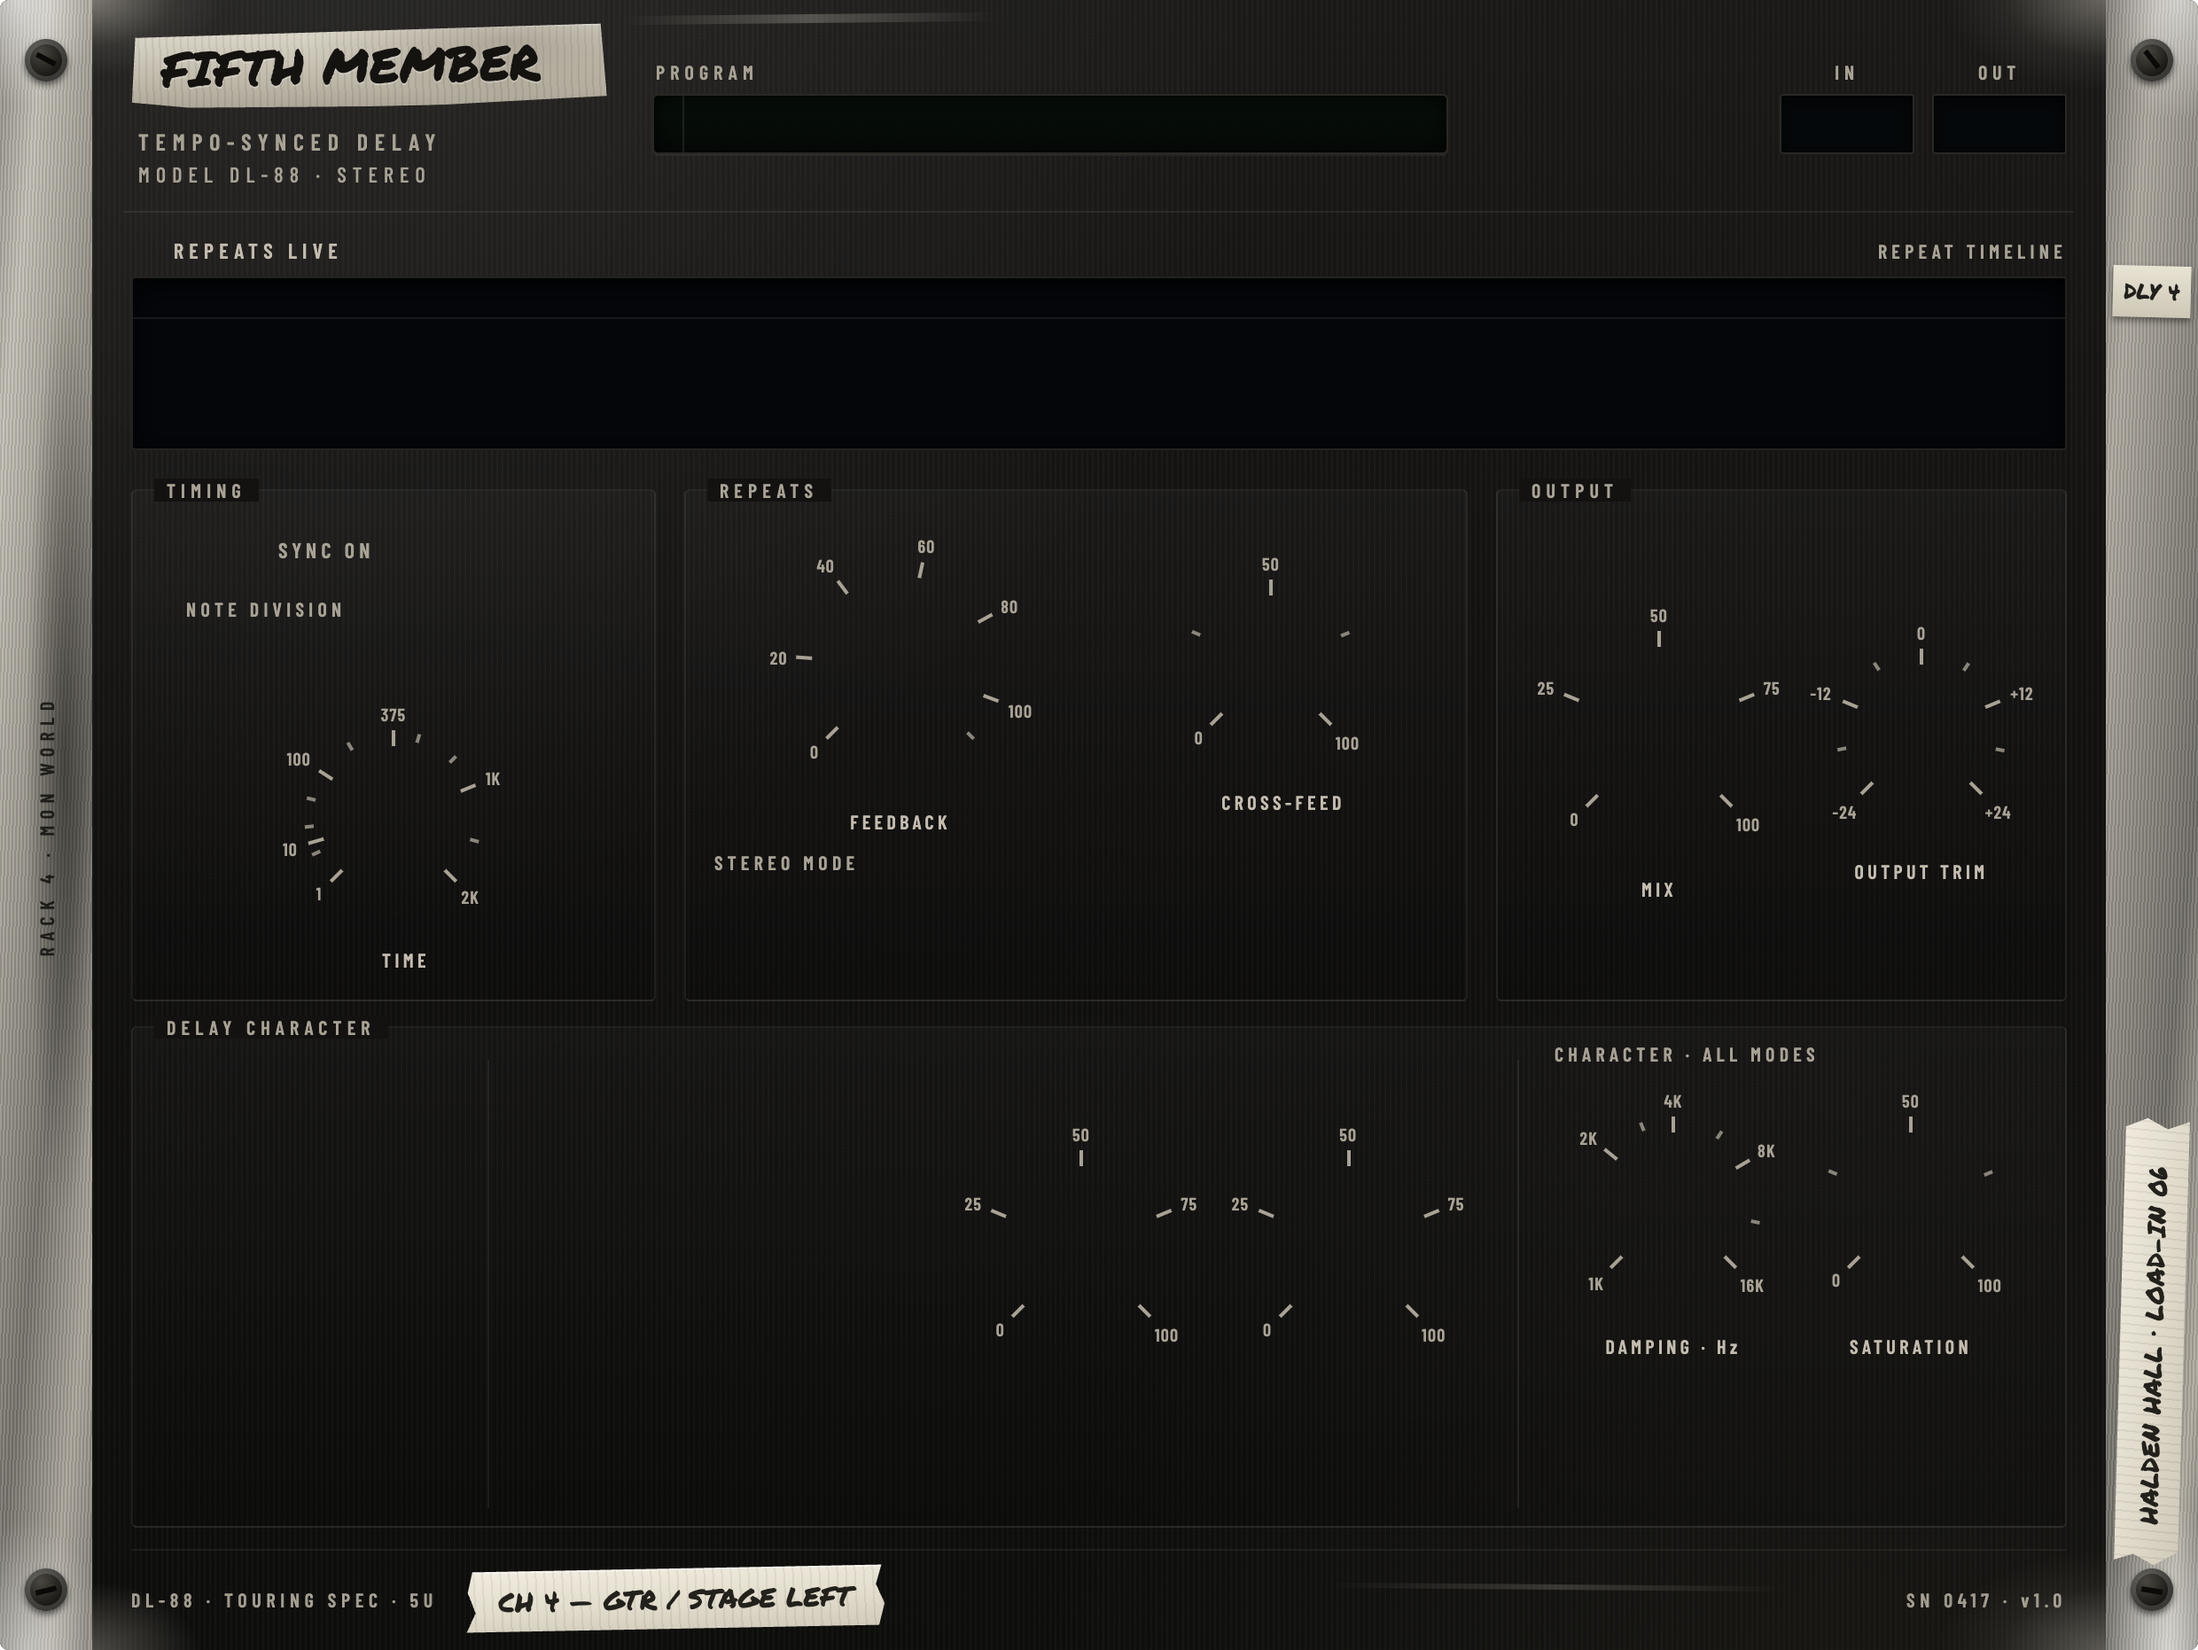
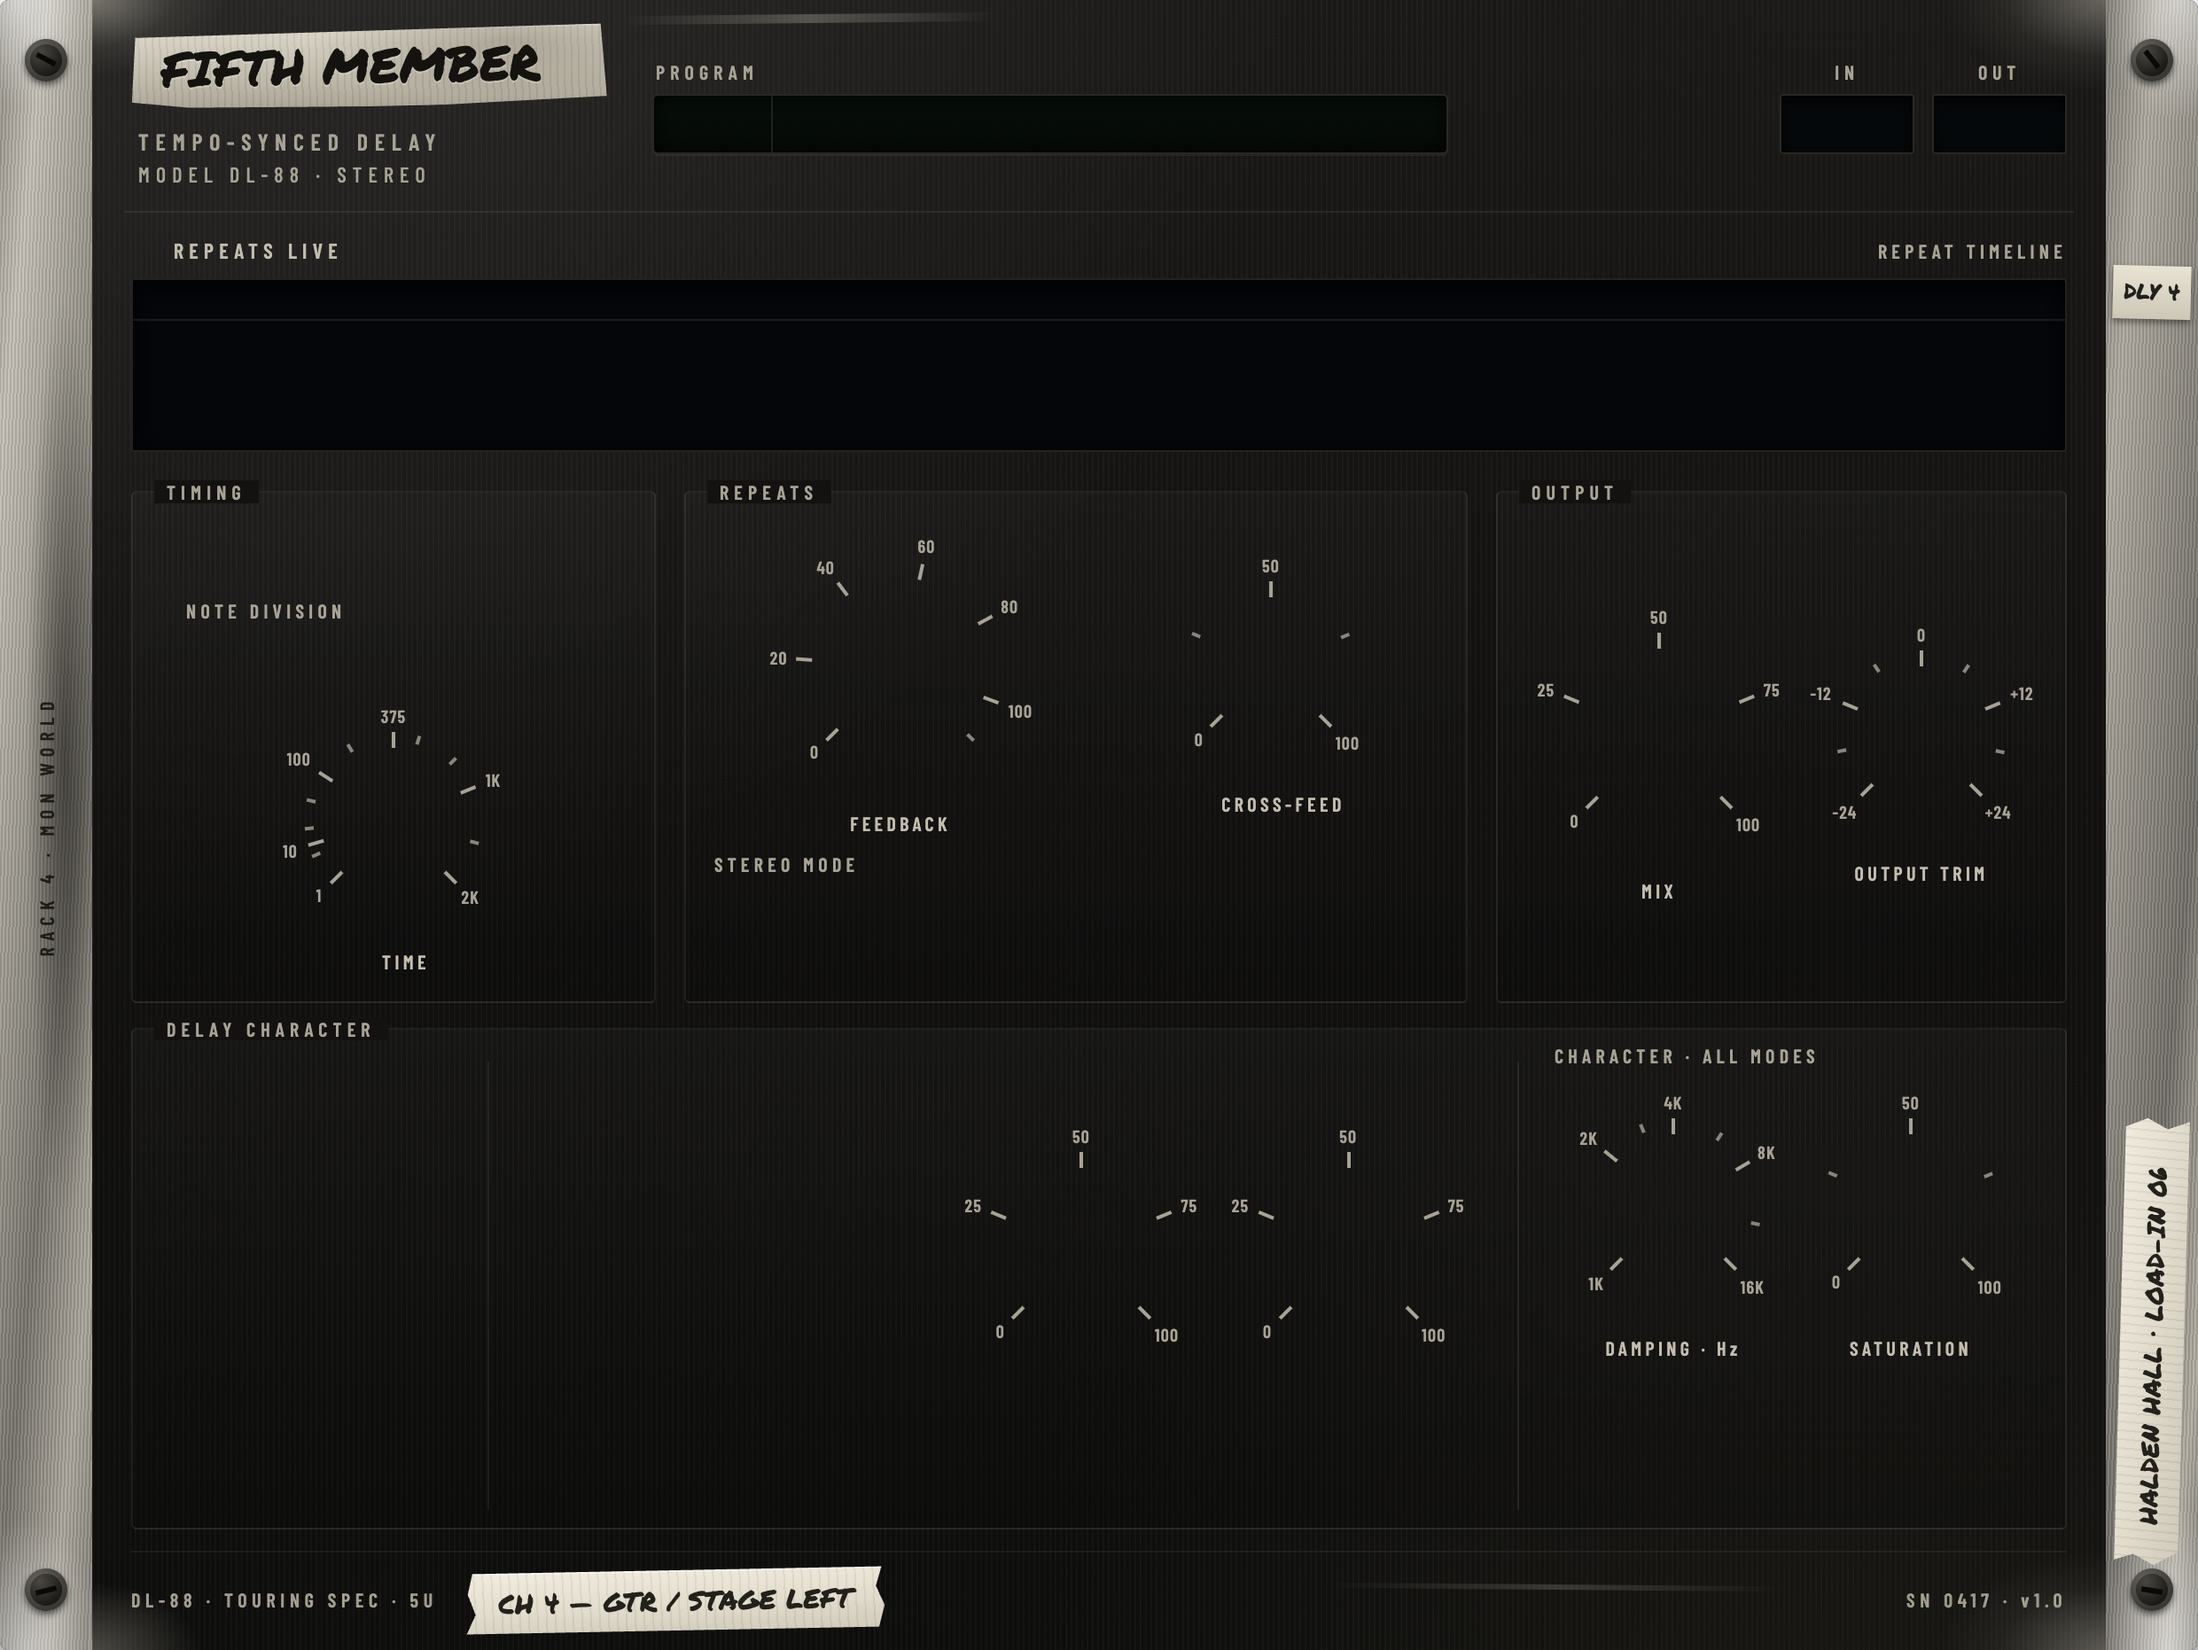
design: the 05:14 re-cut drops the baked SYNC caption from the plate
The caption was in the plate AND drawn live, landing a sub-pixel apart, so
"SYNC ON" rendered as "SYNC OON" and was unreadable. GUI-SPEC §8.2 lists the role
as state-dependent, so drawing it live was right and the plate was wrong to carry
it — BUILD-HANDOFF §1.2's own data-plate="off" attribute is the mechanism that
should have suppressed it in the cut. Ink in that slot goes 179 sampled px to 0.

No code change: the runtime draw was correct and deliberately gained no
workaround. Erasing the baked pixels back to fascia would have meant
reconstructing a gradient and a grain pattern by hand, and then remembering to
remove it — Gatecrasher carried exactly that workaround for its Program buttons
and it outlived its cause by two revisions.

The re-cut re-rendered the WHOLE plate rather than that one slot, so it was
checked rather than trusted. The LCD and IN well edges are pixel-identical, and
the substantive differences cluster at y 880..920 — the scribble strip, whose
Permanent Marker jitter is procedural and re-rolls on every render. Geometry
unmoved. Worth doing on any re-cut that claims to touch one layer.

Changed region(s): [[0.2173, 0.9656, 0.3726, 0.9968], [0.9935, 0.9968, 1.0, 1.0], [0.1242, 0.3115, 0.1552, 0.3426]]

diff --git a/design/Fifth Member.dc.html b/design/Fifth Member.dc.html
@@ -140,7 +140,7 @@
             <div data-plate="off" onClick="{{ toggleSync }}" style="position:relative;width:52px;height:24px;border-radius:2px;cursor:pointer;background:#0b0a09;border:1px solid #2b2924;box-shadow:inset 0 2px 5px rgba(0,0,0,.8)">
               <div style="position:absolute;top:2px;bottom:2px;width:23px;border-radius:1px;left:{{ syncKnobLeft }};background:linear-gradient(180deg,#cfc9bb,#8d887d);box-shadow:0 1px 3px rgba(0,0,0,.7);transition:left 180ms ease"></div>
             </div>
-            <div style="font:600 12px 'Barlow Condensed';letter-spacing:.22em;color:#a8a294">SYNC {{ syncText }}</div>
+            <div data-plate="off" style="font:600 12px 'Barlow Condensed';letter-spacing:.22em;color:#a8a294">SYNC {{ syncText }}</div>
           </div>
           <div style="display:flex;align-items:center;gap:7px;margin-bottom:7px"><div data-plate="off" style="width:7px;height:7px;border-radius:50%;flex:none;background:{{ divLed }};box-shadow:{{ divGlow }}"></div><div style="font:600 11px 'Barlow Condensed';letter-spacing:.24em;color:#a8a294">NOTE DIVISION</div></div>
           <div style="display:flex;gap:5px;margin-bottom:6px">

diff --git a/CLAUDE.md b/CLAUDE.md
@@ -390,6 +390,17 @@ passes while proving nothing.
 - **`GUI-SPEC.md` §2 says the header row "sits on 32px" and BUILD-HANDOFF says 34px. Both are
   right** — 32 is the content box, 34 the border box, and 34 is the figure the suite holds constant.
   Read §2 alone and you build the band a border short.
+- **The SYNC caption is drawn live and is NOT in the plate, as of the 2026-08-12 re-cut.** It was
+  in both for one revision, and the two renderings landed a sub-pixel apart, so `SYNC ON` came out
+  as `SYNC OON` and was unreadable. GUI-SPEC §8.2 lists the role as `SYNC ON / OFF` — state
+  dependent, so runtime is right and the plate was wrong to carry it; BUILD-HANDOFF §1.2's own
+  `data-plate="off"` attribute is the mechanism that should have suppressed it in the cut.
+
+  The re-cut re-rendered the whole plate, not just that slot, so it was checked rather than trusted:
+  the LCD and IN well edges are pixel-identical, and the substantive differences cluster in the
+  scribble strip at y 880..920 — Permanent Marker's jitter is procedural, so it re-rolls on every
+  render. Geometry unmoved, caption gone.
+
 - **The plate is delivered and integrated.** `design/plate/fifth-member-plate-2x.png`, 2480 x 1862.
   `PanelBackground` is a blit now; the ~500 lines that rasterised the fascia, wear, ears, screws,
   tape elements, section frames and silkscreen are gone with it. Every ring except dial 1's two is

diff --git a/design/BUILD-HANDOFF.md b/design/BUILD-HANDOFF.md
@@ -56,6 +56,7 @@ The other five dials keep their rings in the plate — none of them changes ink.
 | SAVE·STORE / DELETE·CANCEL button faces | vector, per §1.3 — face never changes |
 | The four Program-button legends | text, lit or dark per §1.3.1 |
 | Sync switch | vector, per §1.4 |
+| SYNC ON / OFF caption | text, per §8.2 — state-dependent, so not baked |
 | REPEATS LIVE lamp | vector, accent, 1.6s pulse |
 | Dial 1's two scale rings (ticks, minors, numerals) | vector + text, per §4.5 — `bakedInPlate = false` |
 | Delay Character multi-label stack text (3 stacks) | text, lit `#e7e1d4` / unlit `#615c54` per selected mode, per §4.5 |
